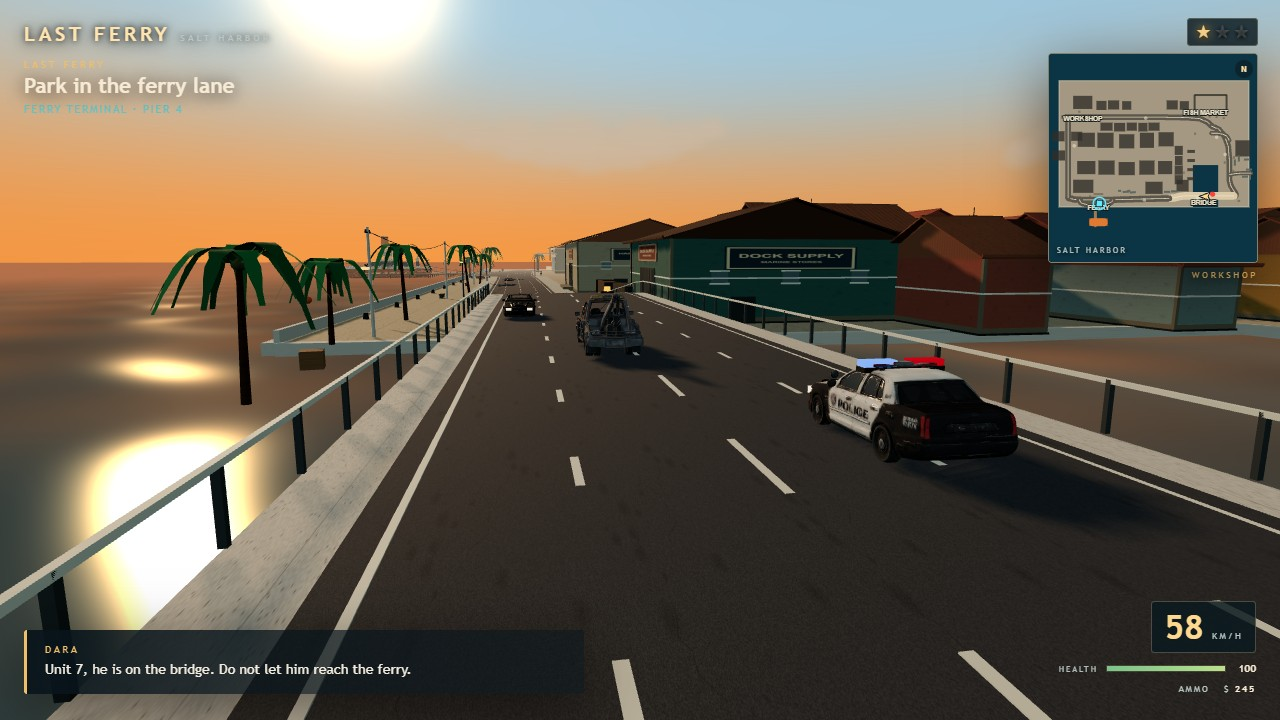
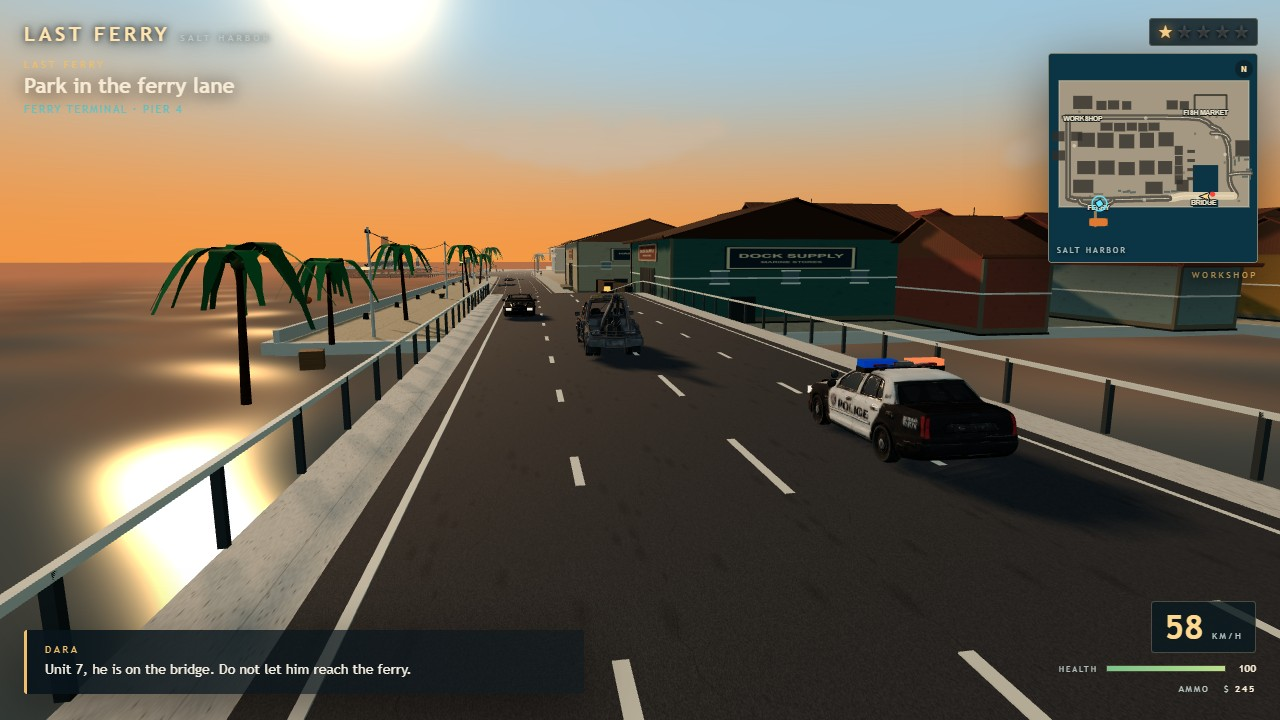
feat: add signal-controlled zebra crossings with waiting pedestrians
- Put a three-lamp signal at the market and terminal crossings on an 8 s green / 2 s amber / 8 s red clock.
- Wait crossing pedestrians at the kerb on red, send them across on green and stop traffic before the zebra.
- Frame the terminal screenshot on the crossing and show three wanted stars.

diff --git a/game/src/main.js b/game/src/main.js
@@ -18,8 +18,8 @@ let collision,assets,player,fleet,npc,police,combat,missions,hud,minimap,input,a
 save=new SaveSystem;audio=new AudioDirector;input=new Input(canvas);hud=new Hud({onStart:continueRun=>startGame(continueRun),onResume:()=>resumeGame(),onRetry:()=>{missions.checkpointRetry();resumeGame()},onSave:()=>{saveGame(true);hud.showToast('Game saved')},onQuit:()=>showTitleMenu(),onMissionContinue:()=>{if(mode==='paused')resumeGame();else input.requestLock()}});
 if(perf){perfOverlay=document.createElement('div');perfOverlay.style.cssText='position:fixed;left:12px;bottom:12px;z-index:60;padding:6px 9px;background:rgba(0,0,0,0.65);color:#9fe3c8;font:11px monospace;letter-spacing:1px;border:1px solid rgba(255,255,255,0.15)';document.body.appendChild(perfOverlay)}
 document.addEventListener('pointerlockchange',()=>{if(document.pointerLockElement===canvas)hadPointerLock=true;else if(hadPointerLock&&mode==='playing'){hadPointerLock=false;if(hud.missionCard.classList.contains('hidden'))pauseGame()}});canvas.addEventListener('click',()=>{if(mode==='playing'&&!input.locked)input.requestLock()});window.addEventListener('resize',()=>{renderer.setSize(window.innerWidth,window.innerHeight,false);camera.aspect=window.innerWidth/window.innerHeight;camera.updateProjectionMatrix()});boot();
-async function boot(){try{hud.setLoading(.04,'Charting Salt Harbor');assets=new AssetLibrary;await assets.load((progress,key)=>hud.setLoading(.05+progress*.72,`Loading ${labelFor(key)}`));if(debug)console.table(assets.debugStats);hud.setLoading(.8,'Building the harbour');collision=new CollisionWorld;const world=buildWorld(scene,collision,assets);buildMissionSigns(scene,collision,world.materials);collision.build();if(debug)console.info('Collider stats',collision.stats());hud.setLoading(.9,'Waking the city');player=new Player(scene,assets,collision);effects=new Effects(scene);fleet=new VehicleFleet(scene,collision,assets);npc=new NpcDirector(scene,assets);police=new PoliceDirector(fleet,player,audio,()=>{hud.showToast('Collared by Unit 7 · released at the workshop');hud.setWanted(0);missions?.h.setWanted(0)});police.onWanted=level=>hud.setWanted(level);combat=new CombatDirector({scene,assets,player,police,hud,audio,effects,collision,npc});missions=new MissionDirector({scene,player,fleet,police,npc,hud,audio,combat});minimap=new Minimap(hud.minimapCanvas,collision);hud.setMoney(missions.m);hud.setHealth(player.health);hud.setWanted(0);input.enabled=true;
-if(debug){console.info('World nodes',Object.keys(world.nodes),'blocks',world.buildingBlocks);window.__lastFerry={player,fleet,police,combat,missions,collision,hud,minimap,assets,scene,camera,renderer,sun,THREE,input,audio,ROADS,footprintGap};window.__setFreeCam=(px,py,pz,tx,ty,tz)=>{window.__freeCam={px,py,pz,tx,ty,tz}};window.__clearFreeCam=()=>{window.__freeCam=null}}
+async function boot(){try{hud.setLoading(.04,'Charting Salt Harbor');assets=new AssetLibrary;await assets.load((progress,key)=>hud.setLoading(.05+progress*.72,`Loading ${labelFor(key)}`));if(debug)console.table(assets.debugStats);hud.setLoading(.8,'Building the harbour');collision=new CollisionWorld;const world=buildWorld(scene,collision,assets);buildMissionSigns(scene,collision,world.materials);collision.build();if(debug)console.info('Collider stats',collision.stats());hud.setLoading(.9,'Waking the city');player=new Player(scene,assets,collision);effects=new Effects(scene);fleet=new VehicleFleet(scene,collision,assets,world.signals);npc=new NpcDirector(scene,assets,world.signals,fleet);police=new PoliceDirector(fleet,player,audio,()=>{hud.showToast('Collared by Unit 7 · released at the workshop');hud.setWanted(0);missions?.h.setWanted(0)});police.onWanted=level=>hud.setWanted(level);combat=new CombatDirector({scene,assets,player,police,hud,audio,effects,collision,npc});missions=new MissionDirector({scene,player,fleet,police,npc,hud,audio,combat});minimap=new Minimap(hud.minimapCanvas,collision);hud.setMoney(missions.m);hud.setHealth(player.health);hud.setWanted(0);input.enabled=true;
+if(debug){console.info('World nodes',Object.keys(world.nodes),'blocks',world.buildingBlocks);window.__lastFerry={player,fleet,police,combat,missions,collision,hud,minimap,assets,scene,camera,renderer,sun,THREE,input,audio,ROADS,footprintGap,signals:world.signals,crossers:npc.crossers};window.__setFreeCam=(px,py,pz,tx,ty,tz)=>{window.__freeCam={px,py,pz,tx,ty,tz}};window.__clearFreeCam=()=>{window.__freeCam=null}}
 if(requestedShot&&SHOTS.includes(requestedShot)){hud.finishLoading();hud.hideTitle();hud.setMoney(245);shot=setupShot(requestedShot,{player,fleet,police,npc,hud,mission:missions,combat,effects});mode='shot'}else{mode='title';hud.showTitle(!!save.read(),save.summary())}lastTime=performance.now();requestAnimationFrame(loop)}catch(error){console.error(error.stack??error);hud.setLoading(1,`Could not start: ${error.message}`);hud.loadText.style.color='#ef8f7f'}}
 function labelFor(key){const labels={bagas:'Bagas',dara:'Dara',citizen:'citizens',police:'harbour police',gangster:'dock crew',tow:'the tow truck',patrol:'Unit 7',civilian:'traffic',ferry:'the ferry',rifle:'the rifle'};return labels[key]??key}
 function startGame(continueRun){audio.start();hud.hideTitle();hud.showPause(false);if(!continueRun&&save.read()&&missions.st!=='find_truck')resetGame();if(continueRun)continueGame();mode='playing';hadPointerLock=false;lastTime=performance.now();hud.setMoney(missions.m);hud.setHealth(player.health);hud.setWanted(police.wanted);hud.setAmmo(player.ammo,player.reserve,player.equipped);hud.setSpeed(0,false);lastMissionStage=missions.st;if(!continueRun){hud.setMission('Last Ferry','The impound lot is behind the Fish Market.');hud.showToast('Salt Harbor · press E to take the truck')}input.requestLock();window.focus()}
@@ -51,6 +51,6 @@ function drawMinimap(dt){minimapAccumulator+=dt;if(minimapAccumulator<.06)return
 function setupShot(name,ctx){const{player,fleet,police,npc,hud,mission,combat}=ctx,cameraPos=new T.Vector3,lookAt=new T.Vector3,hooks=[];hud.hideDialogue();hud.setInteract('');hud.setHealth(100);hud.setMoney(245);hud.setAmmo(player.ammo,player.reserve,false);hud.setCrosshair(false);hud.setSpeed(0,false);fleet.driven=null;player.setDriving(false);player.setEquipped(false);police.setWanted(0,false);
 if(name==='cover'){const tow=fleet.towTruck;Object.assign(tow,{x:100,z:87,y:2.5,yaw:-M.PI/2,speed:11});tow.applyTransform();tow.root.rotation.set(0,tow.yaw,0);player.setDriving(true);player.root.visible=false;player.position.set(tow.x,tow.y,tow.z);player.yaw=tow.yaw;fleet.driven=tow;const patrol=police.patrol;Object.assign(patrol,{x:114,z:82.8,y:2.5,yaw:-M.PI/2});patrol.wanted=true;patrol.applyTransform();patrol.root.rotation.set(0,patrol.yaw,0);police.setWanted(1,true);police.sirenTime=.3;patrol.state='chase';mission.st='ferry_lane';mission.setObjective('Park in the ferry lane','Ferry Terminal · Pier 4',NODES.lane_ferry_dest.x,NODES.lane_ferry_dest.z);hud.setWanted(1);hud.setMission('Last Ferry','Unit 7 is closing.');hud.setSpeed(58,true);hud.setDialogue('DARA','Unit 7, he is on the bridge. Do not let him reach the ferry.',6);cameraPos.set(126,6.2,90);lookAt.set(102,2.4,86);const oncoming=fleet.traffic[0].vehicle;Object.assign(oncoming,{x:84,z:90.6,y:2.5,yaw:M.PI/2,speed:6});oncoming.applyTransform();oncoming.root.rotation.set(0,oncoming.yaw,0);oncoming.headlights.visible=true;hooks.push(dt=>{police.sirenTime+=dt;patrol.updateLights(dt,police.sirenTime,false);if(tow.speed>0)tow.speed=11})}
 else if(name==='market'){player.teleport(94.5,-43,1.45,.16);player.setDriving(false);player.setEquipped(false);player.root.visible=true;player.yaw=1.45;player.root.rotation.y=player.yaw;player.cameraYaw=player.yaw+M.PI;mission.st='find_truck';mission.setObjective('Take the impounded tow truck','Impound lot · Fish Market',NODES.slot_tow_truck_A.x,NODES.slot_tow_truck_A.z);hud.setWanted(0);hud.setMission('Last Ferry','Dara is watching from the lot edge.');hud.setInteract('Enter Tirta · Tow Truck');hud.setCrosshair(false);hud.setSpeed(0,false);cameraPos.set(83,3.4,-30);lookAt.set(97,1,-41);player.setState('Walking',0);if(player.activeAction)player.activeAction.setEffectiveTimeScale(.1);hooks.push(dt=>{player.mixer.update(dt);player.updateRifleAim()})}
-else if(name==='terminal'){const tow=fleet.towTruck;Object.assign(tow,{x:-110,z:101,y:.16,yaw:M.PI/2,speed:0});tow.applyTransform();tow.root.rotation.set(0,tow.yaw,0);player.setDriving(true);player.root.visible=false;player.position.set(tow.x,tow.y,tow.z);player.yaw=tow.yaw;fleet.driven=tow;npc.setCitizenVisibility(false);npc.idris.root.visible=false;police.setWanted(1,true);Object.assign(police.patrol,{x:24,z:86,y:2.5,yaw:M.PI/2});police.patrol.applyTransform();police.patrol.state='chase';mission.st='canal_run';mission.sT=75;mission.setObjective('Reach the ferry terminal in 75 s','Ferry Terminal · Pier 4',POI.terminal.x,POI.terminal.z);hud.objective.textContent='Reach the ferry terminal in 75 s · 01:15';hud.setWanted(1);hud.setMission('Canal Run','The ferry leaves in 75 seconds.');hud.setSpeed(0,true);hud.setDialogue('IDRIS','The ferry leaves in 75 seconds. Get to the terminal in a vehicle!',6);hud.setCrosshair(false);cameraPos.set(-128,6.8,88);lookAt.set(-108,1.8,121);hooks.push(dt=>{police.sirenTime+=dt;police.patrol.updateLights(dt,police.sirenTime,false)})}
+else if(name==='terminal'){const tow=fleet.towTruck;Object.assign(tow,{x:-110,z:101,y:.16,yaw:M.PI/2,speed:0});tow.applyTransform();tow.root.rotation.set(0,tow.yaw,0);player.setDriving(true);player.root.visible=false;player.position.set(tow.x,tow.y,tow.z);player.yaw=tow.yaw;fleet.driven=tow;npc.setCitizenVisibility(false);npc.idris.root.visible=false;police.setWanted(3,true);Object.assign(police.patrol,{x:24,z:86,y:2.5,yaw:M.PI/2});police.patrol.applyTransform();police.patrol.state='chase';mission.st='canal_run';mission.sT=75;mission.setObjective('Reach the ferry terminal in 75 s','Ferry Terminal · Pier 4',POI.terminal.x,POI.terminal.z);hud.objective.textContent='Reach the ferry terminal in 75 s · 01:15';hud.setWanted(3);hud.setMission('Canal Run','The ferry leaves in 75 seconds.');hud.setSpeed(0,true);hud.setDialogue('IDRIS','The ferry leaves in 75 seconds. Get to the terminal in a vehicle!',6);hud.setCrosshair(false);cameraPos.set(-128,6.8,88);lookAt.set(-112,1.2,107);hooks.push(dt=>{police.sirenTime+=dt;police.patrol.updateLights(dt,police.sirenTime,false)})}
 else if(name==='combat'){player.teleport(154,38,2.27,.16);player.root.visible=true;player.setEquipped(true);player.yaw=2.27;player.root.rotation.y=player.yaw;player.health=72;combat.start();combat.available=false;mission.st='dock_trouble';mission.setObjective('Clear the east quay','East Quay · gangsters',168,30);hud.setMission('Dock Trouble','Armed thugs at the east quay.');hud.setWanted(0);hud.setHealth(72);hud.setAmmo(24,90,true);hud.setCrosshair(true);hud.setDialogue('DISPATCH','Bagas, three thugs are moving cargo at the east quay. Clear them out.',7);hud.setSpeed(0,false);player.updateRifleAim();player.root.updateWorldMatrix(true,true);const muzzle=new T.Vector3(player.x+M.sin(player.yaw)*1.1,player.position.y+1.08,player.z+M.cos(player.yaw)*1.1),target=new T.Vector3(160,1.2,30);combat.thugs[0].actor.play('Firing_Rifle',{once:true,restart:true});if(ctx.effects){ctx.effects.flash(muzzle);ctx.effects.tracer(muzzle,target);ctx.effects.impact(target,null,0xd86a4a);const items=ctx.effects.items;if(items[0]){items[0].life=60;items[0].max=60}if(items[1]){items[1].life=60;items[1].max=60}}cameraPos.set(150,3.2,43.5);lookAt.set(165,1.4,30);hooks.push(dt=>{player.mixer.update(dt);player.updateRifleAim();for(const thug of combat.thugs)thug.actor.update(dt,player)})}
-if(name!=='cover')police.setWanted(name==='terminal'?1:0,name==='terminal');hud.setMoney(245);return{name,cameraPos,lookAt,hooks,update(dt){for(const hook of hooks)hook(dt);npc.update(dt,player)}}}
+if(name!=='cover')police.setWanted(name==='terminal'?3:0,name==='terminal');hud.setMoney(245);return{name,cameraPos,lookAt,hooks,update(dt){for(const hook of hooks)hook(dt);npc.update(dt,player)}}}

diff --git a/game/src/world.js b/game/src/world.js
@@ -4,6 +4,7 @@ import { BRIDGE, NODES, ROADS, WORLD } from './core.js';
 import { Merger, createCloudTexture, createSignTexture, getTexture } from './assets.js';
 import { buildBuildings } from './buildings.js';
 import { addDistrictSign, buildDockYard, buildParkingLot, buildProps, buildStreetFurniture, buildWeaponRack } from './props.js';
+import { CROSSINGS, TrafficSignals } from './citysystems.js';
 const T=THREE,M=Math;
 const {BoxGeometry:B,CylinderGeometry:CY,PlaneGeometry:PL,SphereGeometry:SP,CircleGeometry:CI,Box3:BX,Vector3:V,Matrix4:MX,Quaternion:Q,Euler:E,BufferGeometry:G,Float32BufferAttribute:FA,MeshStandardMaterial:SM,Mesh:ME,Group:GP,ShaderMaterial:SH,Color:CO,MathUtils:MU,Object3D:O3,BackSide:BS,DoubleSide:DS}=THREE;
 const PADS=[[112,-52],[-172,-70],[-172,90],[147,54],[-146,98],[-86,96]];
@@ -59,4 +60,5 @@ function addCrosswalk(merger,material,x,z,yaw,width){const name=nearestRoadName(
 function addStrip(merger,material,x,z,w,d,yaw,name,lift=PAINT_LIFT){const half=M.max(w,d)/2,lx=w>=d?M.cos(yaw):M.sin(yaw),lz=w>=d?-M.sin(yaw):M.cos(yaw);if(!strokeClear(name,x-lx*half,z-lz*half,x+lx*half,z+lz*half,.1))return;const geo=new B(w,.02,d);merger.add(geo,material,new MX().compose(new V(x,WORLD.roadY+lift-.01,z),new Q().setFromEuler(new E(0,yaw,0)),new V(1,1,1)));geo.dispose()}
 export function buildBridge(scene,collision,materials){const merger=new Merger,rails=new Merger,half=BRIDGE.halfWidth,z=BRIDGE.z,slab=new B(BRIDGE.deckX1-BRIDGE.deckX0,.38,half*2-.4);merger.add(slab,materials.concrete,new MX().makeTranslation((BRIDGE.deckX0+BRIDGE.deckX1)/2,WORLD.bridgeY-.25,z));slab.dispose();const rampStrip=(x0,x1)=>{const line=sampleRoad('bridge',3).sampled;for(let i=1;i<line.length;i++){const a=line[i-1],b=line[i];if(Math.max(a.x,b.x)<x0||Math.min(a.x,b.x)>x1)continue;const len=M.hypot(b.x-a.x,b.z-a.z);if(len<.2)continue;const yaw=M.atan2(b.x-a.x,b.z-a.z),pitch=-M.atan2(b.y-a.y,len),geo=new B(half*2-.4,.4,len);merger.add(geo,materials.concrete,new MX().compose(new V((a.x+b.x)/2,(a.y+b.y)/2-.26,(a.z+b.z)/2),new Q().setFromEuler(new E(pitch,yaw,0,'YXZ')),new V(1,1,1)));geo.dispose()}};rampStrip(BRIDGE.westRampX0,BRIDGE.deckX0);rampStrip(BRIDGE.deckX1,BRIDGE.eastRampX1);for(const px of[78,98,118,132]){const pier=new B(2,WORLD.bridgeY+1.2,half*1.8);merger.add(pier,materials.concrete,new MX().makeTranslation(px,(WORLD.bridgeY-1.6)/2,z));pier.dispose()}for(const ax of[BRIDGE.deckX0-1.2,BRIDGE.deckX1+1.2]){const abutmentTop=WORLD.bridgeY-.22,abutmentBottom=-.2,abutment=new B(2.4,abutmentTop-abutmentBottom,half*2);merger.add(abutment,materials.concreteTint,new MX().makeTranslation(ax,(abutmentTop+abutmentBottom)/2,z));abutment.dispose()}for(const side of[-1,1]){const line=offsetSampled(sampleRoad('bridge',3).sampled,side*(half-.25),0);for(let i=0;i<line.length;i++){const a=line[i];if(a.x<BRIDGE.westRampX0-1||a.x>BRIDGE.eastRampX1+1||!clearOfOtherRoads(a.x,a.z,'bridge',.2))continue;const post=new B(.12,1.15,.12);rails.add(post,materials.metal,new MX().makeTranslation(a.x,a.y+.58,a.z));post.dispose();const b=line[i+1];if(!b)continue;const len=M.hypot(b.x-a.x,b.z-a.z);if(len<.2)continue;const yaw=M.atan2(b.x-a.x,b.z-a.z),pitch=-M.atan2(b.y-a.y,len),bar=new B(.12,.1,len);rails.add(bar,materials.paint,new MX().compose(new V((a.x+b.x)/2,(a.y+b.y)/2+1.12,(a.z+b.z)/2),new Q().setFromEuler(new E(pitch,yaw,0,'YXZ')),new V(1,1,1)));bar.dispose();collision.addBox((a.x+b.x)/2,(a.z+b.z)/2,len/2,.11,Math.min(a.y,b.y),Math.max(a.y,b.y)+1.2,yaw,'bridge:railing','railing')}}const bridgeMeshes=merger.finish(scene);for(const mesh of bridgeMeshes)mesh.name=mesh.material===materials.concreteTint?'bridge:abutment':mesh.material===materials.concrete?'bridge:structure':'bridge:detail';rails.finish(scene);return bridgeMeshes}
 export function buildTerminal(scene,collision,materials){const merger=new Merger,floor=new PL(74,20);floor.rotateX(-M.PI/2);merger.add(floor,materials.concreteTint,new MX().makeTranslation(-112,.14,100));floor.dispose();collision.addBox(-112,100,37,10,-1,.15,0,'terminal:forecourt','terrain');for(let x=-140;x<=-80;x+=5){const bollard=new CY(.14,.17,.8,8);merger.add(bollard,materials.metal,new MX().makeTranslation(x,.4,108.6));bollard.dispose();collision.addBox(x,108.6,.18,.18,0,.85,0,'terminal:bollard','prop')}const edge=new B(.5,.02,13);merger.add(edge,materials.paintYellow,new MX().makeTranslation(-110,WORLD.roadY+PAINT_LIFT-.01,100));edge.dispose();const gangway=new B(4.4,.16,10);merger.add(gangway,materials.woodDark,new MX().compose(new V(-118,1.05,149),new Q().setFromEuler(new E(-.06,0,0)),new V(1,1,1)));gangway.dispose();collision.addBox(-118,149,2.2,5,.5,1.2,0,'terminal:gangway','pier');const meshes=merger.finish(scene,{castShadow:false,receiveShadow:true}),sign=new ME(new PL(19,4.2),new SM({map:createSignTexture('FERRY TERMINAL','SALT HARBOR · PIER 4',{bg:'#153f52',fg:'#f5e6c8',wide:true}),roughness:.7}));sign.position.set(-112,6.8,82.4);sign.castShadow=true;scene.add(sign);collision.addBox(-112,82.4,9.5,.3,4.7,8.9,0,'terminal:signboard','sign');return meshes}
-export function buildWorld(scene,collision,assets){const materials=createMaterials(),terrainMeshes=buildTerrain(scene,collision,materials),roadData=buildRoads(scene,collision,materials),bridgeMeshes=buildBridge(scene,collision,materials),terminalMeshes=buildTerminal(scene,collision,materials);buildStreetFurniture(scene,collision,materials);const buildingData=buildBuildings(scene,collision,materials,placeFootprint),propData=buildProps(scene,collision,materials),bounds=WORLD.bounds;collision.addWall(bounds.minX,bounds.minZ,bounds.maxX,bounds.minZ,1,0,4,'bounds:north','bounds');collision.addWall(bounds.minX,bounds.maxZ,bounds.maxX,bounds.maxZ,1,0,4,'bounds:south','bounds');collision.addWall(bounds.minX,bounds.minZ,bounds.minX,bounds.maxZ,1,0,4,'bounds:west','bounds');collision.addWall(bounds.maxX,bounds.minZ,bounds.maxX,bounds.maxZ,1,0,4,'bounds:east','bounds');buildParkingLot(scene,collision,materials);buildDockYard(scene,collision,materials);const nodes={};for(const[name,node]of Object.entries(NODES)){const object=new O3;object.name=name;object.position.set(node.x,walkHeightAt(node.x,node.z,0),node.z);object.rotation.y=node.yaw;object.userData={area:node.area,node:true};scene.add(object);nodes[name]=object}const ferry=assets.cloneFerry();ferry.root.position.set(-112,WORLD.seaLevel-1.5,138);ferry.root.rotation.y=M.PI/2;ferry.root.name='ferry_salt_harbor';scene.add(ferry.root);collision.addBox(-112,138,18,7,WORLD.seaLevel-2,.45,0,'ferry:hull','ferry');collision.addBox(-112,138,9,3.4,.45,5.5,0,'ferry:superstructure','ferry');const lineMaterial=new SM({color:0x5a4a36,roughness:.9});for(const x of[-128,-96]){const line=new ME(new CY(.06,.06,26,5),lineMaterial);line.position.set(x+6,2.4,123);line.rotation.x=M.PI/2.25;scene.add(line)}const rack=buildWeaponRack(assets,materials);rack.position.set(-157,0,-83.5);rack.rotation.y=.35;scene.add(rack);collision.addBox(-157,-83.5,1.6,.6,0,2.2,.35,'weaponRack_workshop','prop');addDistrictSign(scene,collision,'SALT HARBOR','WORKSHOP · FISH MARKET · FERRY',-184,-70,M.PI/2,6.2,2.2);addDistrictSign(scene,collision,'CANAL BEND','BRIDGE AHEAD',138,20,-M.PI/2,5,1.8);addDistrictSign(scene,collision,'BRIDGE','SALT HARBOR',166,96,M.PI,5,1.8);return{materials,ferry,nodes,roadData,weaponRack:rack,buildingBlocks:buildingData.blocks,props:propData,meshes:{terrainMeshes,bridgeMeshes,terminalMeshes}}}
+export function buildTrafficSignals(scene,collision,materials,signals){const group=new GP;group.name='traffic_signals';const housing=new SM({color:0x232b2c,roughness:.68}),lampMaterial=(color,emissive)=>new SM({color,emissive,emissiveIntensity:.12,roughness:.4});for(const[name,c]of Object.entries(CROSSINGS)){const post=new ME(new CY(.09,.12,3.1,8),materials.metal);post.position.set(c.px,1.55,c.pz);post.castShadow=true;group.add(post);const head=new ME(new B(.44,.96,.26),housing);head.position.set(c.px,2.85,c.pz);head.castShadow=true;group.add(head);const lamps=[[0x5a1712,0xff2d20,.3],[0x5a4412,0xffb020,0],[0x12421a,0x36e06a,-.3]].map(([color,emissive,dy])=>{const material=lampMaterial(color,emissive),lamp=new ME(new B(.24,.24,.06),material);lamp.position.set(c.px,2.85+dy,c.pz-.16);group.add(lamp);return material});signals.registerHead(name,lamps[0],lamps[1],lamps[2]);collision.addBox(c.px,c.pz,.16,.16,0,3.4,0,`traffic-signal:${name}`,'pole')}scene.add(group);return group}
+export function buildWorld(scene,collision,assets){const materials=createMaterials(),terrainMeshes=buildTerrain(scene,collision,materials),roadData=buildRoads(scene,collision,materials),bridgeMeshes=buildBridge(scene,collision,materials),terminalMeshes=buildTerminal(scene,collision,materials),signals=new TrafficSignals;buildTrafficSignals(scene,collision,materials,signals);buildStreetFurniture(scene,collision,materials);const buildingData=buildBuildings(scene,collision,materials,placeFootprint),propData=buildProps(scene,collision,materials),bounds=WORLD.bounds;collision.addWall(bounds.minX,bounds.minZ,bounds.maxX,bounds.minZ,1,0,4,'bounds:north','bounds');collision.addWall(bounds.minX,bounds.maxZ,bounds.maxX,bounds.maxZ,1,0,4,'bounds:south','bounds');collision.addWall(bounds.minX,bounds.minZ,bounds.minX,bounds.maxZ,1,0,4,'bounds:west','bounds');collision.addWall(bounds.maxX,bounds.minZ,bounds.maxX,bounds.maxZ,1,0,4,'bounds:east','bounds');buildParkingLot(scene,collision,materials);buildDockYard(scene,collision,materials);const nodes={};for(const[name,node]of Object.entries(NODES)){const object=new O3;object.name=name;object.position.set(node.x,walkHeightAt(node.x,node.z,0),node.z);object.rotation.y=node.yaw;object.userData={area:node.area,node:true};scene.add(object);nodes[name]=object}const ferry=assets.cloneFerry();ferry.root.position.set(-112,WORLD.seaLevel-1.5,138);ferry.root.rotation.y=M.PI/2;ferry.root.name='ferry_salt_harbor';scene.add(ferry.root);collision.addBox(-112,138,18,7,WORLD.seaLevel-2,.45,0,'ferry:hull','ferry');collision.addBox(-112,138,9,3.4,.45,5.5,0,'ferry:superstructure','ferry');const lineMaterial=new SM({color:0x5a4a36,roughness:.9});for(const x of[-128,-96]){const line=new ME(new CY(.06,.06,26,5),lineMaterial);line.position.set(x+6,2.4,123);line.rotation.x=M.PI/2.25;scene.add(line)}const rack=buildWeaponRack(assets,materials);rack.position.set(-157,0,-83.5);rack.rotation.y=.35;scene.add(rack);collision.addBox(-157,-83.5,1.6,.6,0,2.2,.35,'weaponRack_workshop','prop');addDistrictSign(scene,collision,'SALT HARBOR','WORKSHOP · FISH MARKET · FERRY',-184,-70,M.PI/2,6.2,2.2);addDistrictSign(scene,collision,'CANAL BEND','BRIDGE AHEAD',138,20,-M.PI/2,5,1.8);addDistrictSign(scene,collision,'BRIDGE','SALT HARBOR',166,96,M.PI,5,1.8);return{materials,ferry,nodes,roadData,weaponRack:rack,buildingBlocks:buildingData.blocks,props:propData,meshes:{terrainMeshes,bridgeMeshes,terminalMeshes},signals}}

diff --git a/game/src/npc.js b/game/src/npc.js
@@ -3,6 +3,7 @@ import * as THREE from '../vendor/three.module.min.js';
 import { NODES, PED_PATHS, dampAngle } from './core.js';
 import { createLabelTexture, findBone } from './assets.js';
 import { walkHeightAt } from './world.js';
+import { CrossingPedestrian } from './citysystems.js';
 const T=THREE,M=Math;
 const {Group:GP,AnimationMixer:AM,Sprite:SPR,SpriteMaterial:SPM,Vector3:V,Quaternion:Q,Euler:E,Mesh:ME,BoxGeometry:B,CylinderGeometry:CY,MeshStandardMaterial:SM}=THREE;
 export class Actor{
@@ -22,10 +23,10 @@ constructor(actor,points,options={}){this.actor=actor;this.points=points;this.lo
 sync(dt){if(this.pause>0){this.pause-=dt;return}this.distance+=this.speed*this.direction*dt;if(this.loop)this.distance=((this.distance%this.total)+this.total)%this.total;else if(this.distance>this.total){this.distance=this.total;this.direction=-1}else if(this.distance<0){this.distance=0;this.direction=1}let segment=this.segments[0];for(const candidate of this.segments)if(this.distance<=candidate.start+candidate.len){segment=candidate;break}const t=M.min(1,(this.distance-segment.start)/segment.len),x=T.MathUtils.lerp(segment.a[0],segment.b[0],t),z=T.MathUtils.lerp(segment.a[1],segment.b[1],t),yaw=M.atan2((segment.b[0]-segment.a[0])*this.direction,(segment.b[1]-segment.a[1])*this.direction);this.actor.x=x;this.actor.z=z;this.actor.y=walkHeightAt(x,z,this.actor.y);this.actor.root.position.set(x,this.actor.y,z);this.actor.yaw=yaw;this.actor.root.rotation.y=yaw}
 update(dt){this.sync(dt)}}
 export class NpcDirector{
-constructor(scene,assets){this.scene=scene;this.assets=assets;this.actors=[];this.walkers=[];this.citizens=[];this.dara=new Actor(scene,assets,'dara',{name:'npc_guard_dara',x:NODES.pos_guard_harbor.x,z:NODES.pos_guard_harbor.z,yaw:NODES.pos_guard_harbor.yaw,label:'Dara',sub:'Harbour Officer',labelRange:30,clip:'woman_Idle'});this.dara.root.add(makeRadio());dressOfficer(this.dara,0xc8e838);this.actors.push(this.dara);this.idris=new Actor(scene,assets,'police',{name:'npc_pier_idris',x:-112,z:106.5,yaw:M.PI,label:'Idris',sub:'Pier Officer',labelRange:42,clip:'Walking_police'});this.idris.play('Walking_police',{timeScale:1});this.walkers.push(new PedWalker(this.idris,[[-112,106.5],[-124,106.5],[-124,140],[-110,140]],{speed:.95}));this.actors.push(this.idris);const sit=new Actor(scene,assets,'citizen',{x:91,z:-47,yaw:-.8,name:'npc_citizen_market_sit',clip:'sipil_Neutral_Idle',label:'Citizen'});sit.play('sipil_Neutral_Idle',{timeScale:.9});this.addCitizen(sit);const marketWalk=new Actor(scene,assets,'citizen',{x:80,z:-44,name:'npc_citizen_market_walk',clip:'Walking_walk',label:'Citizen'});this.addCitizen(marketWalk);this.walkers.push(new PedWalker(marketWalk,PED_PATHS.marketWalk.points,{loop:true,speed:1.15,start:120}));marketWalk.play('Walking_walk',{timeScale:1.05});const shopWalk=new Actor(scene,assets,'citizen',{x:-60,z:-60,name:'npc_citizen_shop_walk',clip:'Walking_walk',label:'Citizen'});this.addCitizen(shopWalk);this.walkers.push(new PedWalker(shopWalk,PED_PATHS.marketWalk.points,{loop:true,speed:1,start:420}));shopWalk.play('Walking_walk',{timeScale:.95});const terminalWalk=new Actor(scene,assets,'citizen',{x:-120,z:99,name:'npc_citizen_terminal',clip:'Walking_walk',label:'Citizen'});this.addCitizen(terminalWalk);this.walkers.push(new PedWalker(terminalWalk,PED_PATHS.terminalWalk.points,{loop:true,speed:.9,start:20}));terminalWalk.play('Walking_walk',{timeScale:.9});const queued=new Actor(scene,assets,'citizen',{x:-90,z:99,yaw:-M.PI/2,name:'npc_citizen_ferry_queue',clip:'sipil_Neutral_Idle',label:'Citizen'});queued.play('sipil_Neutral_Idle',{timeScale:.8});const bag=new ME(new B(.38,.26,.22),new SM({color:0x8a4a32,roughness:.9}));bag.position.set(.38,.48,.1);bag.castShadow=true;queued.root.add(bag);this.addCitizen(queued);const innerWalk=new Actor(scene,assets,'citizen',{x:-77,z:-20,name:'npc_citizen_inner_walk',clip:'Walking_walk',label:'Citizen'});this.addCitizen(innerWalk);this.walkers.push(new PedWalker(innerWalk,PED_PATHS.innerLane.points,{loop:true,speed:1.05,start:40}));innerWalk.play('Walking_walk',{timeScale:1});this.radioTimer=0}
+constructor(scene,assets,signals=null,fleet=null){this.scene=scene;this.assets=assets;this.signals=signals;this.fleet=fleet;this.crossers=[];this.actors=[];this.walkers=[];this.citizens=[];this.dara=new Actor(scene,assets,'dara',{name:'npc_guard_dara',x:NODES.pos_guard_harbor.x,z:NODES.pos_guard_harbor.z,yaw:NODES.pos_guard_harbor.yaw,label:'Dara',sub:'Harbour Officer',labelRange:30,clip:'woman_Idle'});this.dara.root.add(makeRadio());dressOfficer(this.dara,0xc8e838);this.actors.push(this.dara);this.idris=new Actor(scene,assets,'police',{name:'npc_pier_idris',x:-112,z:106.5,yaw:M.PI,label:'Idris',sub:'Pier Officer',labelRange:42,clip:'Walking_police'});this.idris.play('Walking_police',{timeScale:1});this.walkers.push(new PedWalker(this.idris,[[-112,106.5],[-124,106.5],[-124,140],[-110,140]],{speed:.95}));this.actors.push(this.idris);const sit=new Actor(scene,assets,'citizen',{x:91,z:-47,yaw:-.8,name:'npc_citizen_market_sit',clip:'sipil_Neutral_Idle',label:'Citizen'});sit.play('sipil_Neutral_Idle',{timeScale:.9});this.addCitizen(sit);const marketWalk=new Actor(scene,assets,'citizen',{x:80,z:-44,name:'npc_citizen_market_walk',clip:'Walking_walk',label:'Citizen'});this.addCitizen(marketWalk);this.walkers.push(new PedWalker(marketWalk,PED_PATHS.marketWalk.points,{loop:true,speed:1.15,start:120}));marketWalk.play('Walking_walk',{timeScale:1.05});const shopWalk=new Actor(scene,assets,'citizen',{x:-60,z:-60,name:'npc_citizen_shop_walk',clip:'Walking_walk',label:'Citizen'});this.addCitizen(shopWalk);this.walkers.push(new PedWalker(shopWalk,PED_PATHS.marketWalk.points,{loop:true,speed:1,start:420}));shopWalk.play('Walking_walk',{timeScale:.95});const terminalWalk=new Actor(scene,assets,'citizen',{x:-120,z:99,name:'npc_citizen_terminal',clip:'Walking_walk',label:'Citizen'});this.addCitizen(terminalWalk);this.walkers.push(new PedWalker(terminalWalk,PED_PATHS.terminalWalk.points,{loop:true,speed:.9,start:20}));terminalWalk.play('Walking_walk',{timeScale:.9});const queued=new Actor(scene,assets,'citizen',{x:-90,z:99,yaw:-M.PI/2,name:'npc_citizen_ferry_queue',clip:'sipil_Neutral_Idle',label:'Citizen'});queued.play('sipil_Neutral_Idle',{timeScale:.8});const bag=new ME(new B(.38,.26,.22),new SM({color:0x8a4a32,roughness:.9}));bag.position.set(.38,.48,.1);bag.castShadow=true;queued.root.add(bag);this.addCitizen(queued);const innerWalk=new Actor(scene,assets,'citizen',{x:-77,z:-20,name:'npc_citizen_inner_walk',clip:'Walking_walk',label:'Citizen'});this.addCitizen(innerWalk);this.walkers.push(new PedWalker(innerWalk,PED_PATHS.innerLane.points,{loop:true,speed:1.05,start:40}));innerWalk.play('Walking_walk',{timeScale:1});if(signals)this.crossers=CrossingPedestrian.populate(scene,assets,signals,fleet,Actor,actor=>this.addCitizen(actor));this.radioTimer=0}
 addCitizen(actor){this.citizens.push(actor);this.actors.push(actor)}
 daraRadioCall(){this.radioTimer=5.5;this.dara.play('woman_Idle',{restart:true,timeScale:1.1})}
-update(dt,player){this.radioTimer=M.max(0,this.radioTimer-dt);for(const walker of this.walkers)walker.update(dt);for(const actor of this.actors){if(actor===this.dara&&this.radioTimer>0)this.dara.faceTo(player.x,player.z,dt,2.4);actor.update(dt,player)}}
+update(dt,player){this.radioTimer=M.max(0,this.radioTimer-dt);if(this.signals)this.signals.update(dt);for(const walker of this.walkers)walker.update(dt);for(const crosser of this.crossers)crosser.update(dt);for(const actor of this.actors){if(actor===this.dara&&this.radioTimer>0)this.dara.faceTo(player.x,player.z,dt,2.4);actor.update(dt,player)}}
 setCitizenVisibility(visible){for(const citizen of this.citizens)citizen.root.visible=visible}}
 function dressOfficer(actor,colour){const spine=findBone(actor.model,'Spine2')??findBone(actor.model,'Spine1');if(spine){const group=new GP;group.name='harbour_officer_vest';group.scale.setScalar(1/(actor.scale||1));const vest=new ME(new CY(.4,.43,.62,10,1,true),new SM({color:colour,roughness:.72,emissive:0x3a4400,emissiveIntensity:.65}));vest.position.y=.12;vest.castShadow=true;group.add(vest);const stripe=new ME(new CY(.41,.42,.08,10,1,true),new SM({color:0xcfd8d2,roughness:.55,metalness:.1}));stripe.position.y=.2;group.add(stripe);const badge=new ME(new B(.1,.08,.03),new SM({color:0xe0b04a,metalness:.4,roughness:.4}));badge.position.set(.16,.26,.3);group.add(badge);spine.add(group)}const head=findBone(actor.model,'Head');if(!head)return;const cap=new GP;cap.name='harbour_officer_cap';cap.scale.setScalar(1/(actor.scale||1));const crown=new ME(new CY(.16,.18,.1,10),new SM({color:0x1d3242,roughness:.7}));crown.position.y=.08;crown.castShadow=true;cap.add(crown);const brim=new ME(new B(.26,.02,.14),new SM({color:0x14232f,roughness:.6}));brim.position.set(0,.02,.13);cap.add(brim);head.add(cap)}
 function makeRadio(){const group=new GP;group.name='dara_radio';const body=new ME(new B(.09,.2,.05),new SM({color:0x222a2b,roughness:.7}));body.position.set(.24,1.22,.2);group.add(body);const antenna=new ME(new CY(.01,.01,.16,4),new SM({color:0x3d4544,roughness:.6}));antenna.position.set(.24,1.4,.2);group.add(antenna);return group}

diff --git a/game/src/vehicles.js b/game/src/vehicles.js
@@ -29,12 +29,12 @@ applyCamera(camera,dt,orbit=0,pitch=.22,distance=8.2){const target=new V(this.x,
 function angleDiff(from,to){let delta=(to-from+M.PI*3)%(M.PI*2)-M.PI;return delta<-M.PI?delta+M.PI*2:delta}
 function createHeadlights(vehicle){const group=new GP;const material=new SM({color:0xfff2c9,emissive:0xffe0a0,emissiveIntensity:1.4});for(const side of[-1,1]){const lamp=new ME(new B(.32,.16,.08),material);lamp.position.set(side*(vehicle.width/2-.35),.62,vehicle.length/2-.05);group.add(lamp)}return group}
 export class TrafficCar{
-constructor(scene,collision,assets,path,s,key='civilian',color=null){this.path=path;this.vehicle=new Vehicle(scene,collision,assets,key,{label:'Civilian Car'});this.vehicle.root.name='traffic_civilian';this.s=s;this.cruise=8.5;this.blocked=0;this.hitCooldown=0;this.tint(color);this.sync()}
+constructor(scene,collision,assets,path,s,key='civilian',color=null,signals=null){this.path=path;this.vehicle=new Vehicle(scene,collision,assets,key,{label:'Civilian Car'});this.vehicle.root.name='traffic_civilian';this.s=s;this.cruise=8.5;this.blocked=0;this.hitCooldown=0;this.signals=signals;this.stops=[];this.stoppedBySignal=false;if(signals)for(const[name,c]of Object.entries(signals.crossings)){let best=1e9,at=0;for(const point of path.points){const distance=(point.x-c.x)**2+(point.z-c.z)**2;if(distance<best){best=distance;at=point.s}}if(best<36)this.stops.push({name,s:at})}this.tint(color);this.sync()}
 tint(color){if(!color)return;this.vehicle.root.traverse(node=>{if(!node.isMesh)return;const materials=(Array.isArray(node.material)?node.material:[node.material]).map(material=>{if(!material||material.name==='Glass'||material.name==='CabinDark')return material;const clone=material.clone();clone.color=new CO(color);clone.roughness=.5;clone.metalness=.2;return clone});node.material=materials.length===1?materials[0]:materials})}
-update(dt,player){if(this.vehicle.driver||this.stolen)return;if(this.hitCooldown>0){this.hitCooldown-=dt;return}const speed=this.cruise*(this.blocked>0?.25:1);this.blocked=M.max(0,this.blocked-dt);this.s+=speed*dt;this.sync();if(player&&!player.driving&&distance2D(player.x,player.z,this.vehicle.x,this.vehicle.z)<7)this.blocked=.7}
+update(dt,player){if(this.vehicle.driver||this.stolen)return;if(this.hitCooldown>0){this.hitCooldown-=dt;return}const speed=this.cruise*(this.blocked>0?.25:1);this.blocked=M.max(0,this.blocked-dt);let advance=speed*dt;this.stoppedBySignal=false;if(this.signals)for(const stop of this.stops){if(this.signals.stateAt(stop.name)==='green')continue;const gap=((stop.s-this.s)%this.path.length+this.path.length)%this.path.length;if(gap>5.2&&gap<14){advance=M.min(advance,M.max(0,gap-7.4));if(advance<=.001)this.stoppedBySignal=true}}this.s+=advance;this.sync();this.vehicle.speed=this.stoppedBySignal?0:advance/M.max(dt,.0001);if(player&&!player.driving&&distance2D(player.x,player.z,this.vehicle.x,this.vehicle.z)<7)this.blocked=.7}
 sync(){const point=this.path.sample(this.s);this.vehicle.x=point.x;this.vehicle.z=point.z;this.vehicle.y=point.y;this.vehicle.yaw=point.yaw;this.vehicle.speed=this.cruise;this.vehicle.applyTransform();this.vehicle.root.rotation.set(0,point.yaw,0)}}
 export class VehicleFleet{
-constructor(scene,collision,assets){this.scene=scene;this.assets=assets;this.collision=collision;this.vehicles=[];this.traffic=[];this.driven=null;this.towed=null;this.paths={harbour:new RoadPath(TRAFFIC_LOOPS.harbourLoop.points,RIGHT_LANE,true),harbourReverse:new RoadPath([...TRAFFIC_LOOPS.harbourLoop.points].reverse(),RIGHT_LANE,true)};this.towTruck=new Vehicle(scene,collision,assets,'tow',{x:98,z:-38,yaw:M.PI/2,label:'Tirta'});this.towTruck.root.name='vehicle_tow_tirta';this.patrol=new Vehicle(scene,collision,assets,'police',{x:173,z:41,yaw:-M.PI/2,label:'Unit 7'});this.patrol.root.name='vehicle_patrol_unit7';this.patrol.state='standby';this.patrol.autopilot=false;this.vehicles.push(this.towTruck,this.patrol);this.patrols=[this.patrol];this.towCable=new GP;this.towCable.name='tow_cable';this.towCable.visible=false;const cableGeo=new CY(.06,.06,1,6,1,true),cableMat=new SM({color:0xd8c08a,roughness:.62,metalness:.12});this.towSegments=[];this.towPoints=[new V,new V,new V,new V];this.towDir=new V;this.towUp=new V(0,1,0);this.towQuat=new Q;this.towHookPos=new V;for(let i=0;i<3;i++){const seg=new ME(cableGeo,cableMat);seg.frustumCulled=false;this.towSegments.push(seg);this.towCable.add(seg)}scene.add(this.towCable);const tints=[0x3f6b8f,0x9a4b3f,0x53765a];for(const[i,start]of[0,140,320].entries()){const path=i===2?this.paths.harbourReverse:this.paths.harbour,traffic=new TrafficCar(scene,collision,assets,path,start,'civilian',tints[i]);traffic.vehicle.root.name=`traffic_civilian_${i}`;this.traffic.push(traffic);this.vehicles.push(traffic.vehicle)}this.parked=[new Vehicle(scene,collision,assets,'civilian',{x:139,z:4,yaw:M.PI/2,label:'Civilian Car'}),new Vehicle(scene,collision,assets,'civilian',{x:-160,z:-13,yaw:M.PI,label:'Civilian Car'}),new Vehicle(scene,collision,assets,'civilian',{x:122,z:-30,yaw:M.PI/2,label:'Civilian Car'})];this.parked[0].root.name='vehicle_civilian_chase_1';this.parked[1].root.name='vehicle_civilian_chase_2';this.parked[2].root.name='vehicle_civilian_market_lot';this.vehicles.push(...this.parked)}
+constructor(scene,collision,assets,signals=null){this.scene=scene;this.assets=assets;this.collision=collision;this.signals=signals;this.vehicles=[];this.traffic=[];this.driven=null;this.towed=null;this.paths={harbour:new RoadPath(TRAFFIC_LOOPS.harbourLoop.points,RIGHT_LANE,true),harbourReverse:new RoadPath([...TRAFFIC_LOOPS.harbourLoop.points].reverse(),RIGHT_LANE,true)};this.towTruck=new Vehicle(scene,collision,assets,'tow',{x:98,z:-38,yaw:M.PI/2,label:'Tirta'});this.towTruck.root.name='vehicle_tow_tirta';this.patrol=new Vehicle(scene,collision,assets,'police',{x:173,z:41,yaw:-M.PI/2,label:'Unit 7'});this.patrol.root.name='vehicle_patrol_unit7';this.patrol.state='standby';this.patrol.autopilot=false;this.vehicles.push(this.towTruck,this.patrol);this.patrols=[this.patrol];this.towCable=new GP;this.towCable.name='tow_cable';this.towCable.visible=false;const cableGeo=new CY(.06,.06,1,6,1,true),cableMat=new SM({color:0xd8c08a,roughness:.62,metalness:.12});this.towSegments=[];this.towPoints=[new V,new V,new V,new V];this.towDir=new V;this.towUp=new V(0,1,0);this.towQuat=new Q;this.towHookPos=new V;for(let i=0;i<3;i++){const seg=new ME(cableGeo,cableMat);seg.frustumCulled=false;this.towSegments.push(seg);this.towCable.add(seg)}scene.add(this.towCable);const tints=[0x3f6b8f,0x9a4b3f,0x53765a];for(const[i,start]of[0,140,320].entries()){const path=i===2?this.paths.harbourReverse:this.paths.harbour,traffic=new TrafficCar(scene,collision,assets,path,start,'civilian',tints[i],signals);traffic.vehicle.root.name=`traffic_civilian_${i}`;this.traffic.push(traffic);this.vehicles.push(traffic.vehicle)}this.parked=[new Vehicle(scene,collision,assets,'civilian',{x:139,z:4,yaw:M.PI/2,label:'Civilian Car'}),new Vehicle(scene,collision,assets,'civilian',{x:-160,z:-13,yaw:M.PI,label:'Civilian Car'}),new Vehicle(scene,collision,assets,'civilian',{x:122,z:-30,yaw:M.PI/2,label:'Civilian Car'})];this.parked[0].root.name='vehicle_civilian_chase_1';this.parked[1].root.name='vehicle_civilian_chase_2';this.parked[2].root.name='vehicle_civilian_market_lot';this.vehicles.push(...this.parked)}
 spawnPatrol(name,x,z,yaw){if(!this.scene||this.patrols.length>=3)return null;const vehicle=new Vehicle(this.scene,this.collision,this.assets,'police',{x,z,yaw,label:name});vehicle.root.name=`vehicle_patrol_${String(name).toLowerCase().replace(/\s/g,'_')}`;this.patrols.push(vehicle);this.vehicles.push(vehicle);return vehicle}
 nearestVehicle(player){let best=null;for(const vehicle of this.vehicles){if(vehicle===this.patrol&&this.patrol.state==='chase')continue;const distance=distance2D(player.x,player.z,vehicle.x,vehicle.z),reach=vehicle.key==='tow'?4.2:3.2;if(distance<reach&&(!best||distance<best.d))best={vehicle,d:distance}}return best?.vehicle??null}
 nearestTowable(){const t=this.driven;if(t?.key!=='tow')return null;const fx=M.sin(t.yaw),fz=M.cos(t.yaw);let best=null;for(const v of this.vehicles){if(v===t||v===this.towed||v.key==='police')continue;const dx=v.x-t.x,dz=v.z-t.z,d=M.hypot(dx,dz);if(d<=10&&dx*fx+dz*fz<=0&&(!best||d<best.d))best={v,d}}return best?.v??null}

diff --git a/game/src/citysystems.js b/game/src/citysystems.js
@@ -30,3 +30,18 @@ standbyStep(unit){const vehicle=unit.vehicle;if(distance2D(vehicle.x,vehicle.z,P
 checkVehicleHits(){const driven=this.fleet.driven;if(!driven||driven.key==='police'||M.abs(driven.speed)<2)return;for(const unit of this.activeUnits()){const vehicle=unit.vehicle;if(vehicle===driven)continue;const distance=distance2D(driven.x,driven.z,vehicle.x,vehicle.z);if(distance>(driven.halfLength+vehicle.halfLength)*.7||distance<1e-3)continue;const dx=vehicle.x-driven.x,dz=vehicle.z-driven.z,forward=(dx*M.sin(driven.yaw)+dz*M.cos(driven.yaw))/distance;if(forward>.25){this.onPatrolHit();break}}}
 updateCapture(dt,distance){const close=this.wanted>0&&!this.player.driving&&this.player.health>0&&distance<6.5;this.cap=close?M.min(1,this.cap+dt/5.5):M.max(0,this.cap-dt*.55);if(this.cap<1)return;this.cap=0;this.player.teleport(NODES.spawn_player_01.x,NODES.spawn_player_01.z,NODES.spawn_player_01.yaw);this.player.health=100;this.setWanted(0,false);this.patrol.state='standby';this.onCapture?.()}
 sirenVolume(distance=distance2D(this.patrol.x,this.patrol.z,this.player.x,this.player.z)){return M.max(0,1-distance/95)*.55}}
+export const CROSSINGS={market:{x:68,z:-70,span:6.6,px:63.4,pz:-62.2},terminal:{x:-118,z:94,span:7.2,px:-113.4,pz:101.2}};
+export const SIGNAL_TIMING={green:8,amber:2,red:8,cycle:18};
+export class TrafficSignals{
+constructor(){this.time=0;this.heads=[];this.crossings=CROSSINGS;this.stats={market:[0,0],terminal:[0,0]};this.waiting={market:new Set,terminal:new Set}}
+stateAt(name){const t=(this.time+(name==='terminal'?10:0))%SIGNAL_TIMING.cycle;return t<SIGNAL_TIMING.green?'green':t<SIGNAL_TIMING.green+SIGNAL_TIMING.amber?'amber':'red'}
+update(dt){this.time=(this.time+dt)%SIGNAL_TIMING.cycle;for(const head of this.heads){const state=this.stateAt(head.name);head.red.emissiveIntensity=state==='red'?2.4:.12;head.amber.emissiveIntensity=state==='amber'?2.4:.12;head.green.emissiveIntensity=state==='green'?2.4:.12}}
+registerHead(name,red,amber,green){this.heads.push({name,red,amber,green})}
+markWaiting(name,id,on){const set=this.waiting[name];if(on?!set.has(id):set.has(id)){if(on){set.add(id);this.stats[name][0]++}else set.delete(id)}}
+waitingCount(name){return this.waiting[name].size}}
+export class CrossingPedestrian{
+constructor(actor,signals,fleet,name,side,delay=0){this.actor=actor;this.signals=signals;this.fleet=fleet;this.name=name;this.side=side?1:0;this.delay=delay;this.state='wait';this.id=`${name}:${side}`;this.speed=1.15;this.progress=0;this.place()}
+static populate(scene,assets,signals,fleet,Actor,register){const list=[];for(const name of Object.keys(signals.crossings)){const crossing=signals.crossings[name];for(let side=0;side<2;side++){const actor=new Actor(scene,assets,'citizen',{x:crossing.x,z:crossing.z+(side?crossing.span:-crossing.span),yaw:side?Math.PI:0,name:`npc_crossing_${name}_${side}`,clip:'sipil_Neutral_Idle',label:'Citizen'});register(actor);list.push(new CrossingPedestrian(actor,signals,fleet,name,side,side?1.6:.3))}}return list}
+place(){const crossing=CROSSINGS[this.name];this.actor.setPosition(crossing.x,crossing.z+(this.side?crossing.span:-crossing.span));this.actor.yaw=this.side?Math.PI:0;this.actor.root.rotation.y=this.actor.yaw;this.actor.play('sipil_Neutral_Idle',{timeScale:.9})}
+blocked(x,z){if(!this.fleet)return false;for(const vehicle of this.fleet.vehicles){if(!vehicle.root.visible)continue;if(distance2D(x,z,vehicle.x,vehicle.z)<vehicle.width/2+.65&&M.abs(vehicle.speed)<1.2)return true}return false}
+update(dt){const crossing=CROSSINGS[this.name],signals=this.signals;if(this.state==='wait'){const phase=signals.stateAt(this.name);signals.markWaiting(this.name,this.id,phase!=='green');if(phase==='green'){this.delay-=dt;if(this.delay<=0){this.state='cross';this.from=this.side;this.to=this.side?0:1;this.progress=0;signals.stats[this.name][1]++;this.actor.play('Walking_walk',{timeScale:1.1})}}return}this.progress=M.min(1,this.progress+this.speed*dt/(crossing.span*2));const z=crossing.z+(this.from?crossing.span:-crossing.span)+(this.to-this.from)*crossing.span*this.progress;if(this.blocked(crossing.x,z))return;this.actor.setPosition(crossing.x,z);this.actor.yaw=this.to>this.from?0:Math.PI;this.actor.root.rotation.y=this.actor.yaw;if(this.progress>=1){this.side=this.to;this.state='wait';this.delay=1.5;this.place()}}}
